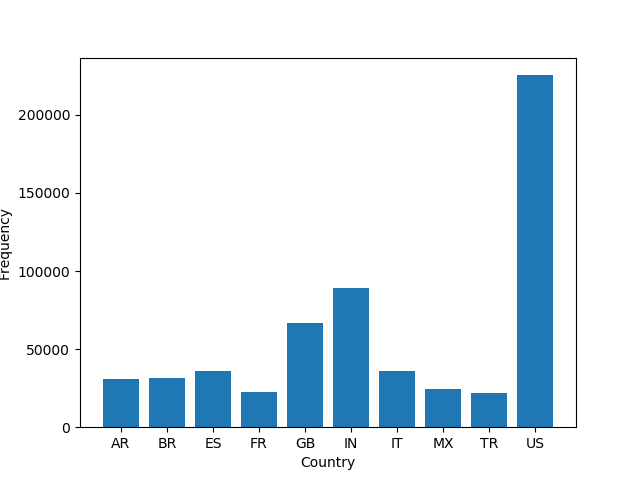
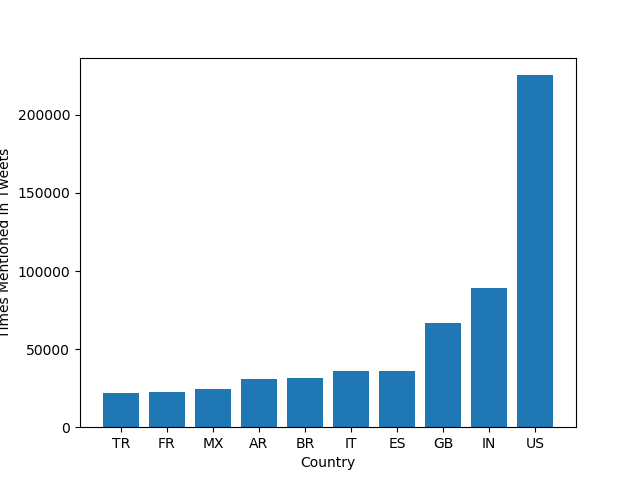
done

diff --git a/src/alternative_reduce.py b/src/alternative_reduce.py
@@ -1,0 +1,74 @@
+#!/usr/bin/env python3
+
+# command line args
+import argparse
+parser = argparse.ArgumentParser()
+parser.add_argument('--hashtags',nargs = '+',  required=True)
+args = parser.parse_args()
+
+# imports
+import os
+import json
+import datetime
+import matplotlib
+matplotlib.use('Agg')
+import matplotlib.pyplot as plt
+import matplotlib.dates as mdates
+import matplotlib.ticker as mtick
+import datetime as dt
+print(type(args), args.hashtags[0])
+day_counts = {day: 0 for day in range(1, 367)}
+dataset = {}
+string = args.hashtags[0]
+list = [s.strip("'") for s in string.split(", ")]
+for hashtag in list:
+	hashtag_counts = {}
+	for filename in os.listdir('./outputs/'):
+		if not filename.endswith('.lang'):
+			continue
+		with open(os.path.join('./outputs/', filename)) as f:
+			data = json.load(f)
+			s = str(f)
+			start = s.find('-') + 1
+			end = s.find('.zip')
+			day = s[start:end]
+			if str(hashtag) in str(data):
+				total = 0
+				for lang in data[hashtag]:
+					total += data[hashtag][lang]
+					if day not in hashtag_counts:
+						hashtag_counts[day] = total
+					else:
+						hashtag_counts[day] += total
+			hashtag_counts = {k: v for k, v in sorted(hashtag_counts.items())}
+			dataset[hashtag] = hashtag_counts
+
+# create line plot
+fig, ax = plt.subplots()
+for hashtag in dataset:
+	x_values = []
+	y_values = []
+	days = 0
+	for day in dataset[hashtag]:
+		days += 1
+		# convert day string to datetime object
+		try:
+			date = dt.datetime.strptime(day, '%m-%d')
+		except ValueError:
+			continue
+		x_values.append(date)
+		y_values.append(dataset[hashtag][day])
+	x_values.sort()
+	ax.plot(x_values, y_values, label=hashtag)
+
+# format x-axis as dates
+ax.xaxis.set_major_formatter(mdates.DateFormatter('%m-%d'))
+y_format = mtick.FuncFormatter(lambda x, pos: '{:,.0f}'.format(x/100000))
+ax.xaxis.set_major_locator(mdates.MonthLocator(bymonthday=1, bymonth=range(0, 13, 3)))
+ax.yaxis.set_major_formatter(y_format)
+ax.set_xlabel('Date')
+ax.set_ylabel('Times Mentioned in Tweets (tens of thousands)')
+ax.legend()
+
+# save plot
+plt.savefig('line_plot.png')

diff --git a/src/visualize.py b/src/visualize.py
@@ -5,7 +5,6 @@ import argparse
 import matplotlib
 matplotlib.use('Agg')
 import matplotlib.pyplot as plt
-import pandas as pd
 
 parser = argparse.ArgumentParser()
 parser.add_argument('--input_path',required=True)
@@ -32,18 +31,16 @@ items = sorted(counts[args.key].items(), key=lambda item: (item[1],item[0]), rev
 #for k,v in items:
 #    print(k,':',v)
 
-items = sorted(counts[args.key].items(), key=lambda item: item[1], reverse=True)[:10]
+items = items[:10]
 keys = [item[0] for item in items]
 values = [item[1] for item in items]
+keys = keys[::-1]
+values = values[::-1]
 
-df = pd.DataFrame(dict(keys = list(keys),values = list(values)))
-print(df)
-
-df_sorted = df.sort_values('values')
 # create the bar graph
 
-fig, ax = plt.subplots()
-ax.bar(keys, values, data = df_sorted)
+plt.bar(range(len(keys)), values)
+plt.xticks(range(len(keys)), keys)
 if 'en' in keys:
     xlabel = 'Language'
     name = 'language'
@@ -54,8 +51,8 @@ else:
 if str(args.key) == '#coronavirus':
     pngkey = '_' + str(args.key)[1:]
 else:
-    pngkey = '_chinese'
+    pngkey = '_korean'
 
 plt.xlabel(xlabel)
 plt.ylabel('Times Mentioned in Tweets')
-plt.savefig(name + pngkey + 'test.png')
+plt.savefig(name + pngkey + '.png')
